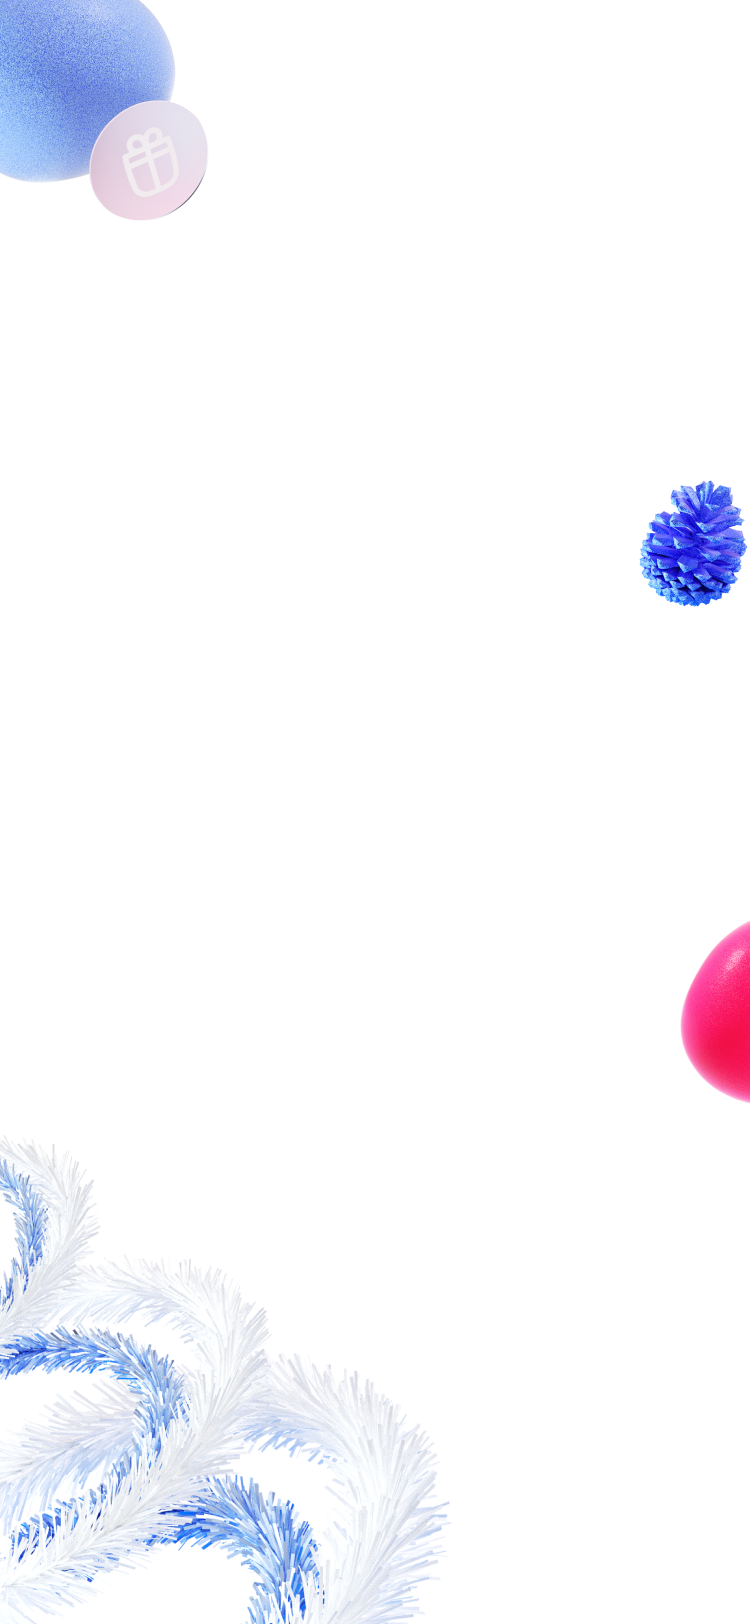
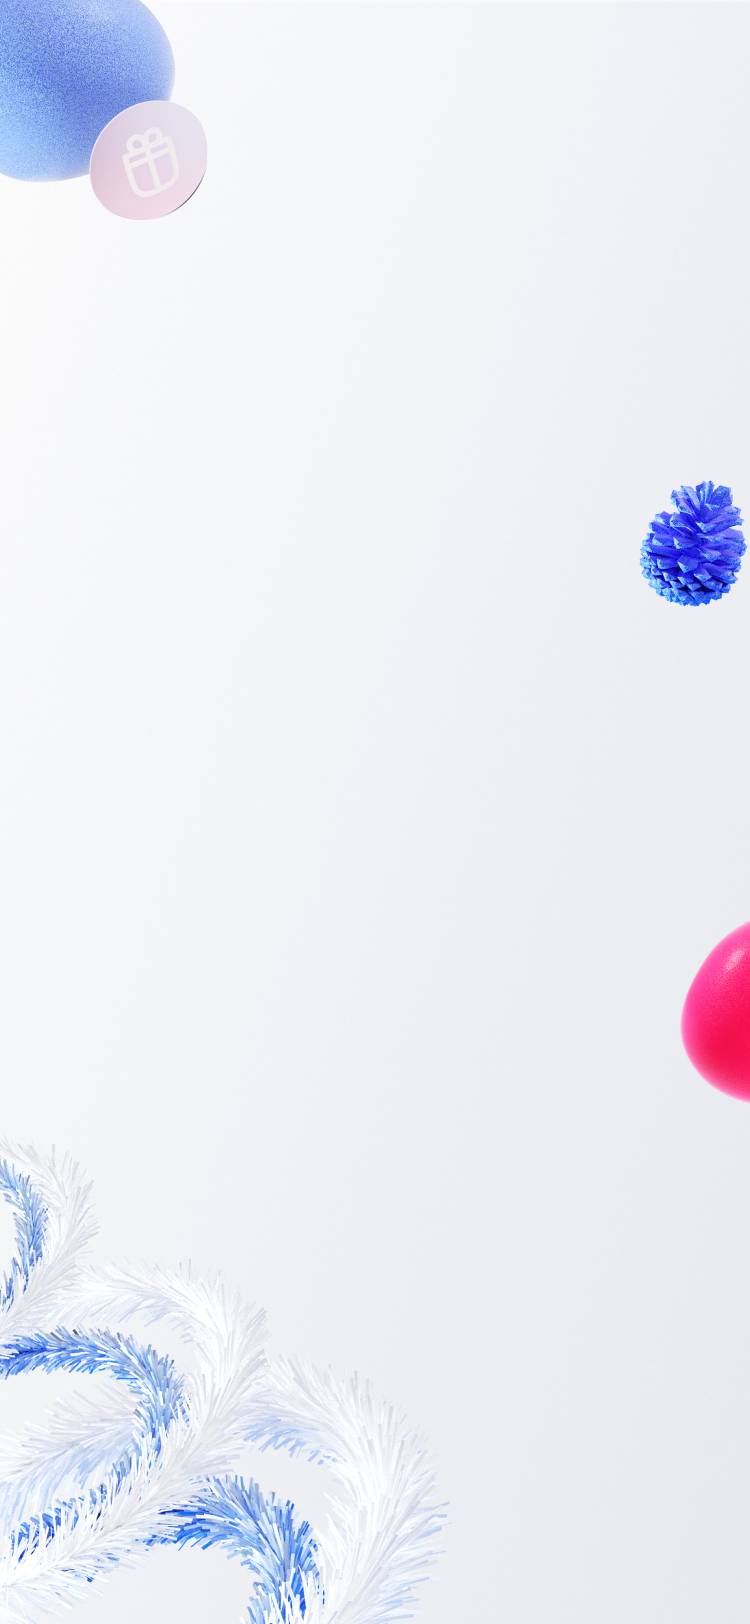
bg changes + game key listener

Changed region(s): [[0.8587, 0.8005, 1.0, 1.0]]

diff --git a/src/components/screens/screen2/constants.js b/src/components/screens/screen2/constants.js
@@ -3,13 +3,13 @@ export const TRIES_AMOUNT = 5;
 export const CELLS_AMOUNT = 6;
 export const ADDITIONAL_TRIES_AMOUNT = 2;
 export const MESSAGES = [
-    'Мы видели, у тебя почти получилось! Цифр много, и очень сложно выбрать правильную. ' +
-    'Возможно стоит с кем‑нибудь посоветоваться? У нас в МТС тоже много профессий, ' +
-    'но сделать правильный выбор всегда поможет карьерный консультант.',
-    'Не сдавайся! Нам рассказывали, что один разработчик из МТС переписывал код для запуска ' +
-    'сервиса 47 раз, потому что постоянно находил, что улучшить. Мы за инициативность.', 
-    'Аналитики МТС, как и ты, находятся в постоянном поиске себя решений, чтобы сделать ' + 
-    'жизнь людей и бизнеса лучше. Мы ценим настойчивость. Попробуй ещё раз.',
-    'Не грусти, на ошибках учатся. В экосистеме МТС есть свой собственный Корпоративный университет, ' + 
-    'где каждый может изучать то, что нравится, и прокачивать скиллы. Мы за развитие профессиональных и личных качеств.'
+    'У тебя почти получилось! Да, цифр много, и очень сложно выбрать правильную. Возможно, стоит с кем‑нибудь посоветоваться? У нас в МТС тоже много профессий, и сделать правильный выбор всегда поможет карьерный консультант.',
+    'Не сдавайся! Нам рассказывали, один разработчик из МТС переписывал код для запуска сервиса 47 раз, так как постоянно находил, что улучшить. Мы ценим инициативность.', 
+    'Аналитики МТС, как и ты, находятся в постоянном поиске себя решений, чтобы сделать жизнь людей и бизнеса лучше. Быть настойчивым — очень здорово! Выдохни и попробуй ещё раз.',
+    'Не грусти, на ошибках учатся. В экосистеме МТС есть свой собственный Корпоративный университет, где каждый может изучать то, что нравится, и прокачивать скиллы. Мы за развитие профессиональных и личных качеств.',
+    'Это не просто, но мы уверены, ты справишься. Как и наш дизайнер, который смог выбрать тот самый красный цвет из тысячи. У тебя всё получится, главное, не останавливайся на достигнутом и делай ещё круче!',
+    'Ты ведь специально допустил ошибку? Мы попросили наших тестировщиков не проходить игру с первого раза, чтобы проверить все варианты. Нам хотелось, чтобы эта игра была такая же интересная, как все продукты цифровой экосистемы МТС.\nПопробуешь ещё раз?',
+    'Понимаем, угадать действительно сложно, ведь в этом коде кроме единицы и нуля есть и другие цифры. Но ошибаться не так страшно, как кажется. Поэтому бери и действуй!',
+    'Ой, эта попытка оказалась неудачной, но стоит попробовать ещё раз. Кстати, на крутую стажировку от МТС попасть легче, чем угадать этот код.',
+    'Победа была близко!\nНе расстраивайся и попробуй подобрать нужные цифры снова. Как говорят в МТС: «Допустить ошибку легко, а принять оффер в один клик ещё легче, ведь всё оцифровано».'
 ];

diff --git a/src/components/screens/screen1.jsx b/src/components/screens/screen1.jsx
@@ -1,6 +1,7 @@
 import styled from "styled-components";
 import bg from "../../assets/images/bgSnow.png";
 import logo from "../../assets/images/logo.svg";
+import composition from "../../assets/images/composition.png";
 import { useProgress } from "../../hooks/useProgress";
 import { ButtonCentered } from "../shared/button";
 import { Title } from "../shared/common-text";
@@ -13,17 +14,44 @@ const Wrapper = styled(FlexWrapper)`
     background: url(${bg}) no-repeat 0 0 / cover;
 `;
 
+const Content = styled(FlexWrapper)`
+    position: relative;
+    z-index: 4;
+    flex-shrink: 0;
+    flex-grow: 1;
+`;
+
 const ButtonStyled = styled(ButtonCentered)`
     margin-top: auto;
 `;
 
 const LogoStyled = styled.div`
+    position: relative;
+    z-index: 2;
     width: min(46px, 12.4vw);
     height: min(46px, 12.4vw);
     background: url(${logo}) no-repeat 0 0 / cover;
     margin-bottom: calc(var(--screen_padding) * 1.8);
 `;
 
+const Composition = styled.div`
+    position: absolute;
+    z-index: 1;
+    inset: 0;
+    background: url(${composition}) no-repeat 0 100% / cover;
+
+    @media screen and (max-height: 800px) {
+        background-position: 0 80%;
+    }
+
+    @media screen and (max-height: 700px) {
+        background-position: 0 45%;
+    }
+
+    @media screen and (max-height: 600px) {
+        background-position: 0 18%;
+    }
+`;
 
 const Text = styled.p`
     font-size: 14px;
@@ -46,17 +74,21 @@ export const Screen1 = () => {
     return (
         <Wrapper>
             <LogoStyled />
-            <Title>
-                А что, если Дед Мороз существует?
-            </Title>
-            <Text>
-                Тогда ему нужно обязательно написать письмо со своими мечтами и поверить в чудо. 
-                Письмо нужно положить в конверт и отправить по почте. Да, не юзерфрендли, зато олдскульно! 
-                <br/>
-                <br/>
-                Но вот нюанс — индекса резиденции Деда Мороза у тебя нет. Попробуй разгадать его и получи подарки! 💌
-            </Text>
-            <ButtonStyled onClick={next}>играть</ButtonStyled>
+            <Content>
+                <Title>
+                    А что, если Дед Мороз существует?
+                </Title>
+                <Text>
+                    Тогда тебе точно нужно написать ему письмо, рассказать о своих мечтах и поверить в чудо. 
+                    Письмо положить в конверт и отправить по почте. Да, не юзерфрендли, зато олдскульно!
+                    <br/>
+                    <br/>
+                    Есть одно НО — индекса резиденции Деда Мороза у тебя нет. 
+                    Попробуй разгадать его и получи подарки! Или ещё круче — возможность присоединиться к команде МТС.
+                </Text>
+                <ButtonStyled onClick={next}>играть</ButtonStyled>
+            </Content>
+            <Composition />
         </Wrapper>
     )
 }

diff --git a/src/components/screens/screen2/index.jsx b/src/components/screens/screen2/index.jsx
@@ -1,4 +1,4 @@
-import { useCallback, useMemo, useState } from "react";
+import { useCallback, useEffect, useMemo, useState } from "react";
 import styled from "styled-components";
 import { useProgress } from "../../../hooks/useProgress";
 import { getAllIndexes, getAllObjectIndexes } from "../../../utils/getAllIndexes";
@@ -104,7 +104,7 @@ export const Screen2 = () => {
         setHasReachAdditional(false);
     };
 
-    const onChooseNumber = (num) => {
+    const onChooseNumber = useCallback((num) => {
         if (hasReachAdditional && !isAdditional) return;
         let id = currentNumId;
         if (id + 1 > CELLS_AMOUNT) return;
@@ -112,9 +112,11 @@ export const Screen2 = () => {
         const newLine = [...newTries[currentTry]];
         newLine[id] = {num};
         newTries[currentTry] = newLine;
+        console.log({...tries, [triesName]: [...newTries]});
+        console.log(id + 1);
         setTries(prev => ({...prev, [triesName]: [...newTries]}));
-        setCurrentNumId(() => id + 1);
-    };
+        setCurrentNumId(id + 1);
+    }, [currentNumId, currentTry, hasReachAdditional, isAdditional, tries, triesName]);
 
     const handleOpenIncorrect = useCallback(() => {
         const index = Math.floor((availableMessages.length - 1) * Math.random());
@@ -200,6 +202,27 @@ export const Screen2 = () => {
         setCurrentNumId(numId => --numId);
     }, [currentNumId, hasReachAdditional, isAdditional, tries, triesName, currentTry]);
 
+    useEffect(() => {
+        const onKeyDown = (e) => {
+            if (e.code.toLowerCase().includes('digit') && e.key !== undefined) {
+                onChooseNumber(+e.key);
+            }
+            if (e.code === 'Backspace') {
+                onDelete();
+            }
+            if (e.code === 'Enter') {
+                if (incorrect.shown) handleCloseIncorrect() 
+                else onAcceptTry();
+            }
+        };
+
+        window.addEventListener('keydown', onKeyDown);
+        
+        return () => {
+            window.removeEventListener('keydown', onKeyDown);
+        }
+    }, [onChooseNumber, onDelete, onAcceptTry, handleCloseIncorrect, incorrect.shown]);
+    
     return (
         <Wrapper>
             {hasReachAdditional && (

diff --git a/src/components/screens/screen2/parts/delete-button.jsx b/src/components/screens/screen2/parts/delete-button.jsx
@@ -1,0 +1,37 @@
+import styled from "styled-components"
+import bg from "../../../../assets/images/delete.svg";
+
+const Wrapper = styled.button`
+    position: relative;
+    height: 40px;
+    width: 60px;
+    display: flex;
+    justify-content: flex-end;
+    align-items: center;
+    padding: 8px;
+    background: transparent;
+
+    & svg {
+        user-select: none;
+        pointer-events: none;
+        z-index: 2;
+    }
+`;
+
+const Background = styled.div`
+    position: absolute;
+    inset: 0;
+    background: url(${bg}) no-repeat 0 0 / cover;
+    z-index: -1;
+    user-select: none;
+    pointer-events: none;
+`;
+
+export const DeleteButton = (props) => (
+    <Wrapper {...props}>
+        <Background />
+        <svg width="28" height="28" viewBox="0 0 28 28" fill="none" xmlns="http://www.w3.org/2000/svg">
+            <path d="M6.9882 6.98795C7.44381 6.53234 8.1825 6.53234 8.63812 6.98795L14.0003 12.3502L19.3626 6.98795C19.8182 6.53234 20.5569 6.53234 21.0125 6.98795C21.4681 7.44356 21.4681 8.18226 21.0125 8.63787L15.6503 14.0001L21.0126 19.3624C21.4682 19.818 21.4682 20.5567 21.0126 21.0123C20.5569 21.4679 19.8182 21.4679 19.3626 21.0123L13.9995 15.6508L8.63811 21.0122C8.1825 21.4678 7.4438 21.4678 6.98819 21.0122C6.53258 20.5566 6.53258 19.8179 6.98819 19.3623L12.3496 14.0009L6.9882 8.63787C6.53258 8.18226 6.53258 7.44356 6.9882 6.98795Z" fill="black"/>
+        </svg>
+    </Wrapper>
+);

diff --git a/src/components/screens/screen2/parts/game.jsx b/src/components/screens/screen2/parts/game.jsx
@@ -6,6 +6,7 @@ import { FlexWrapper } from "../../../shared/flex-wrapper";
 import { Cell } from "../../../shared/cell";
 import { CommonText } from "../../../shared/common-text";
 import { TRIES_AMOUNT } from "../constants";
+import { DeleteButton } from "./delete-button";
 
 const background = `
     content: '';
@@ -63,6 +64,7 @@ const ButtonCell = styled(Cell)`
     p {
         touch-action: none;
         pointer-events: none;
+        user-select: none;
     }
     
     & + & {
@@ -92,11 +94,6 @@ const ButtonsBlock = styled.div`
             }
         }
     }
-`;
-
-const DeleteBtn = styled.button`
-    height: 40px;
-    width: 60px;
 `;
 
 const CellStyled = styled(Cell)`
@@ -185,7 +182,7 @@ export const Game = ({
                 </ButtonsWrapper>
                 <ButtonsBlock>
                     <Button onClick={onAcceptTry} disabled={!isDoneBtnActive}>Проверить</Button>
-                    <DeleteBtn onClick={onDelete}>X</DeleteBtn>
+                    <DeleteButton onClick={onDelete} />
                 </ButtonsBlock>
             </Content>
     );

diff --git a/src/components/shared/button.jsx b/src/components/shared/button.jsx
@@ -19,6 +19,7 @@ export const Wrapper = styled.button`
     padding: min(14px, 3.7vw);
     border-radius: 16px;
     font-size: 12px;
+    user-select: none;
 
     &:disabled {
         background-color: ${({$type}) => TYPE_TO_DISABLED[$type]};  

diff --git a/src/App.js b/src/App.js
@@ -34,7 +34,7 @@ const ComponentWrapper = styled(FlexWrapper)`
     max-width: 400px;
     border: 3px solid black;
     border-radius: 20px;
-    margin: 5px 0 auto;
+    margin: 5px auto 5px;
     max-height: 850px;
   }
 
